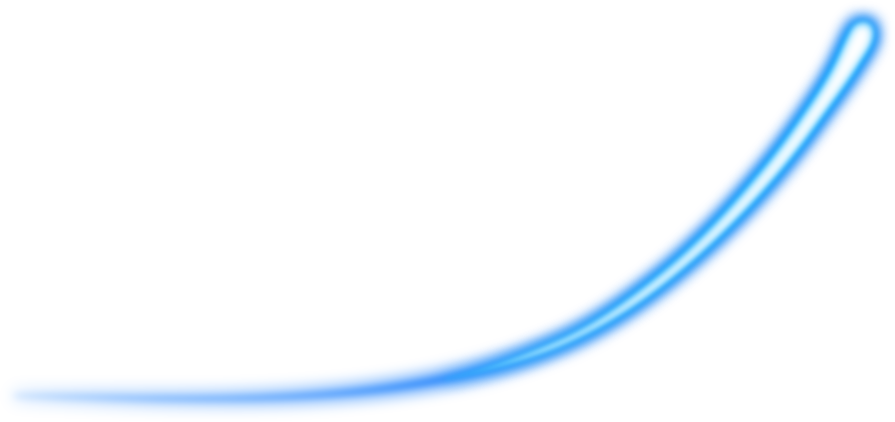
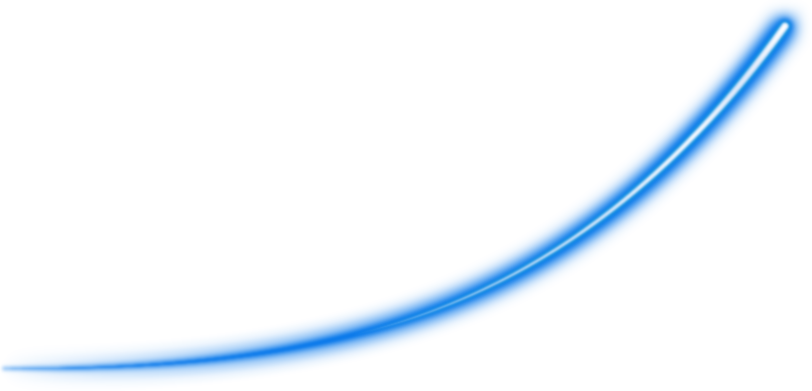
fix: update rocket

Changed region(s): [[0.0, 0.0307, 1.0, 0.9821]]

diff --git a/src/assets/game/scripts/components/rocket-fly/rocket-fly.ts b/src/assets/game/scripts/components/rocket-fly/rocket-fly.ts
@@ -38,8 +38,8 @@ export class RocketFly extends ObserverComponent {
     private reachedLimitX = false;
     private preparingRocket = false;
     private cpnColMultipliers: ColMultipliers;
-    private readonly graphTranslateX = 200;
-    private readonly graphTranslateDuration = 10000;
+    private readonly graphTranslateX = 250;
+    private readonly graphTranslateDuration = 15000;
     private tweenDeltaTime: Tween<TweenDeltaTime>;
 
     private get startPosition(): Vec3 {

diff --git a/src/assets/game/scripts/components/rocket-fly/rocket.ts b/src/assets/game/scripts/components/rocket-fly/rocket.ts
@@ -44,7 +44,7 @@ export class Rocket extends Component {
         return this.explosion.getComponent(sp.Skeleton);
     }
     get skeRocket(): sp.Skeleton {
-        return this.rocket.getComponentInChildren(sp.Skeleton);
+        return this.rocket.getChildByName("skeleton").getComponent(sp.Skeleton);
     }
 
     private rotationTween: Tween<Node>;
